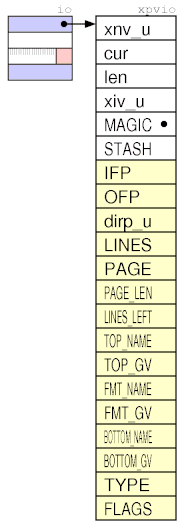
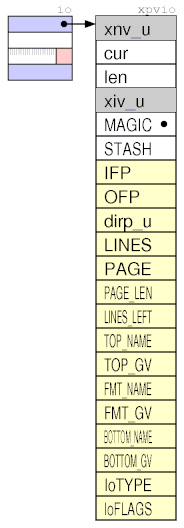
import illguts-0.12.tar.gz

diff --git a/index.html b/index.html
@@ -5,7 +5,7 @@ text="#000000" link="#000055" vlink="#550000" alink="#000000"
 topmargin=0>
 
 <h1 align="center" name="top">
-PerlGuts Illustrated<br><small>Version 0.11, for perl 5.11.2
+PerlGuts Illustrated<br><small>Version 0.12, for perl 5.11.2
 </small></h1>
 
 <p>This document is meant to supplement the <i>perlguts(1)</i> manual
@@ -438,16 +438,17 @@ A SvRV object with ROK flag off represents an undefined value.
 
 <a name="svpvmg"><h2>SvPVMG</h2></a>
 
-<p>The <i>SvPVMG</i> is like <i>SvPVNV</i> above, but has two
-additional fields; MAGIC and STASH.  MAGIC is a pointer to additional
-structures that contains callback functions and other data.  If the
+<p>Blessed scalars ar othr magic attached. <i>SvPVMG</i> has two
+additional fields; MAGIC and STASH. MAGIC is a pointer to additional
+structures that contains callback functions and other data. If the
 MAGIC pointer is non-NULL, then one or more of the MAGICAL flags will
 be set.
 
 <p>STASH (<b>s</b>ymbol <b>t</b>able h<b>ash</b>) is a pointer to a HV
-that represents some namespace/class.
-(That the HV represents some namespace means that the NAME field
-of the HV must be non-NULL. See description of <a href="hv">HVs</a> and <a href="#stash">stashes</a> below).
+that represents some namespace/class.  (That the HV represents some
+namespace means that the NAME field of the HV must be non-NULL. See
+description of <a href="hv">HVs</a> and <a href="#stash">stashes</a>
+below).
 
 The STASH field is set when the value is blessed into a package
 (becomes an object).  The OBJECT flag will be set when STASH is.
@@ -478,17 +479,17 @@ on the <i>type</i> (actually it is the callbacks attached to
 correspondence between the <i>type</i> field and the <i>virtual</i>
 field.
 
-<li><i>flags</i> contains 8 flag bits.  Only 2 are generally used.
-Bit 1 is the <b>REFCOUNTED</b> flag.  It indicates that the <i>obj</i>
+<li><i>flags</i> contains 8 flag bits, where 2 of them are generally used.
+Bit 2 is the <b>REFCOUNTED</b> flag.  It indicates that the <i>obj</i>
 is assumed to be an SV and that it's reference count must be
 decremented when this magic is freed.  The <b>GSKIP</b> flag indicate
-that invocation of the magical GET method should be suppressed.  Other
-flag bits are used depending of the kind of magic.
+that invocation of the magical GET method should be suppressed. 
+Other flag bits are used depending of the kind of magic.
 
-<li><i>obj</i> is usually a pointer to some SV.  How it is used
-depends on the kind of magic this is.
+<li><i>obj</i> is usually a pointer to some SV, <i>SvTIED_obj</i>.
+How it is used depends on the kind of magic this is.
 
-<li><i>ptr</i> is usually a pointer to some character string.  How it
+<li><i>ptr</i> is usually a pointer to some character <i>MgPV</i> string.  How it
 is used depends on the kind of magic this is.  If the <i>len</i> field
 is &gt;= 0, then <i>ptr</i> is assumed to point to a malloced buffer and
 will be automatically freed when the magic is.
@@ -496,8 +497,12 @@ will be automatically freed when the magic is.
 <li><i>len</i> is usually the length of the character string pointed
 to by <i>ptr</i>.  How it is used depends on the kind of magic this
 is.
-
 </ol>
+
+The struct magic_state is stored on the global <a
+href="#stacks">savestack</a>.  <i>mgs_sv</i> points to our magical sv,
+and <i>mgs_ss_ix</i> points on the savestack after the saved
+destructor.
 
 
 <a name="svpvbm"><h2>SvPVBM (old)</h2></a>
@@ -759,21 +764,24 @@ to by GvSTASH will usually contain an element with NAME as
 key and a pointer to this GV as value.  See description of
 <a href="#stash">stashes</a> below.
 
-<p>FLAGS:
+<p>GvFLAGS:
 <blockquote><dl>
 
- <dt>0) <b>INTRO</b>
+ <dt>0x1) <b>INTRO</b>
 
- <dt>1) <b>MULTI</b>
+ <dt>0x2) <b>MULTI</b>
  <dd> Have we seen more than one occurrence of this glob.  Used to
       implement the "possibly typo" warning.
 
- <dt>2) <b>ASSUMECV</b>
+ <dt>0x4) <b>ASSUMECV</b>
+            The GV is most likely a CV.
+ <dt>0x8) <b>IN_PAD</b>
+            With ithreads new GVs are created temporary on the PAD, and not as global SV.
 
- <dt>4) <b>IMPORTED_SV</b>
- <dt>5) <b>IMPORTED_AV</b>
- <dt>6) <b>IMPORTED_HV</b>
- <dt>7) <b>IMPORTED_CV</b>
+ <dt>0x10) <b>IMPORTED_SV</b>
+ <dt>0x20) <b>IMPORTED_AV</b>
+ <dt>0x40) <b>IMPORTED_HV</b>
+ <dt>0x80) <b>IMPORTED_CV</b>
 </dl></blockquote>
 
 <p>A magic of type '*' is always attached to the GV (not shown in the
@@ -800,10 +808,10 @@ CVGEN, LASTEXPR, LINE, FILEGV.
 to this GP.  It is incremented/decremented as new GVs reference/forget
 this GP.  When the counter reach 0 the GP is freed.
 
-<p>EGV is a pointer to the GV that originally created this GP (used to
-tell the real name of any aliased symbol).  If the original GV is freed,
-but GP should stay since another GV reference it, then the EGV is
-NULLed.
+<p>EGV, the effective gv, if *glob, is a pointer to the GV that
+originally created this GP (used to tell the real name of any aliased
+symbol).  If the original GV is freed, but GP should stay since
+another GV reference it, then the EGV is NULLed.
 
 <p>CVGEN is an integer used to validate method cache CV entries in the
 GP.  If CVGEN is zero, then the CV is real.  If CVGEN is non-zero, but
@@ -816,12 +824,7 @@ entry.
 method caches are performed, then the <tt>subgeneration</tt> variable
 is incremented.)
 
-<p>LASTEXPR is an integer I don't understand the purpose of yet.
-
-<p>FILEGV is a pointer to a GV where the SV of the GP is the name of
-the file where this symbol was first created.  The NAME of this GV is
-the filename prefixed with "_&lt;" and GvSTASH is
-<code>defstash</code> (see description of <a href="#stash">stashes</a> below).
+<p>FILE_HEK is the name of the file where this symbol was first created. 
 
 <p>LINE is the corresponding line number in the file.
 
@@ -872,9 +875,8 @@ same glob as the corresponding "<code>_&lt;</code>" entry in
 <a name="cv"><h2>CV</h2></a>
 
 The <i>CV</i> ("code value") is like <i>SvPVMG</i> above, but has
-thirteen additional fields; CvSTASH, START, ROOT, XSUB, XSUBANY, GV, FILEGV,
-DEPTH, PADLIST, OUTSIDE, MUTEXP, OWNER, FLAGS.  (The fields MUTEXP and
-OWNER are only present for Perls that support threading).
+some renamed and additional fields; CvSTASH, START, ROOT, GV, FILE,
+DEPTH, PADLIST, OUTSIDE, OUTSIDE_SEQ, FLAGS.
 
 <p><center><img src="cv.png"></center>
 
@@ -904,7 +906,7 @@ additional fields.
 
 <p><center><img src="io.png"></center>
 
-<b>FLAGS (xio_flags)</b>
+<b>IoFLAGS</b>
 <blockquote><dl>
 <dt>1  IOf_ARGV		this fp iterates over ARGV
 <dt>2  IOf_START	check for null ARGV and substitute '-'
@@ -972,7 +974,76 @@ class hierarchy diagram shows:
 
 <p>A typical small optree for <code>$a = $b + $c</code> would be:
 
-<center><img src="abc-simple.png"></center>
+<center><img src="opsample.png"></center>
+
+<table><tr valign="top"><td><pre>
+	$ perl-nonthreaded -MO=Concise -e '$a = $b + 42'
+	8  &lt;@&gt; leave[1 ref] vKP/REFC -&gt;(end)
+	1     &lt;0&gt; enter -&gt;2
+	2     &lt;;&gt; nextstate(main 1 -e:1) v:{ -&gt;3
+	7     &lt;2&gt; sassign vKS/2 -&gt;8
+	5        &lt;2&gt; add[t1] sK/2 -&gt;6
+	-           &lt;1&gt; ex-rv2sv sK/1 -&gt;4
+	3              &lt;$&gt; gvsv(*b) s -&gt;4
+	4           &lt;$&gt; const(IV 42) s -&gt;5
+	-        &lt;1&gt; ex-rv2sv sKRM*/1 -&gt;7
+	6           &lt;$&gt; gvsv(*a) s -&gt;7
+</pre><i>(Note: ex-ops are Nullified)</i></td><td><pre>
+	$ perl-nonthreaded -MO=Concise,-exec -e '$a = $b + 42'
+	1  &lt;0&gt; enter
+	2  &lt;;&gt; nextstate(main 1 -e:1) v:{
+	3  &lt;$&gt; gvsv(*b) s
+	4  &lt;$&gt; const(IV 42) s
+	5  &lt;2&gt; add[t1] sK/2
+	6  &lt;$&gt; gvsv(*a) s
+	7  &lt;2&gt; sassign vKS/2
+	8  &lt;@&gt; leave[1 ref] vKP/REFC
+</pre></td></tr></table>
+
+We have two BINOPs, SASSIGN and ADD as &lt;2&gt; 
+and three SVOPs, GVSV and CONST as &lt;$&gt;.
+
+<table><tr valign="top"><td><pre>
+my %argnum = (
+    'S',  1,   # scalar
+    'L',  2,   # list
+    'A',  3,   # array value
+    'H',  4,   # hash value
+    'C',  5,   # code value
+    'F',  6,   # file value
+    'R',  7,   # scalar reference
+);
+</pre></td><td><pre>
+my %opclass = (
+    '0',  0,   # baseop
+    '1',  1,   # unop
+    '2',  2,   # binop
+    '|',  3,   # logop
+    '@',  4,   # listop
+    '/',  5,   # pmop
+    '$',  6,   # svop_or_padop
+    '#',  7,   # padop
+    '"',  8,   # pvop_or_svop
+    '{',  9,   # loop
+    ';',  10,  # cop
+    '%',  11,  # baseop_or_unop
+    '-',  12,  # filestatop
+    '}',  13,  # loopexop
+);
+</pre></td><td><pre>
+my %opflags = (
+    'm' =>   1,   # needs stack mark
+    'f' =>   2,   # fold constants
+    's' =>   4,   # always produces scalar
+    't' =>   8,   # needs target scalar
+    'T' =>   8|256, # ... which may be lexical
+    'i' =>  16,   # always produces integer
+    'I' =>  32,   # has corresponding int op
+    'd' =>  64,   # danger, unknown side effects
+    'u' => 128,   # defaults to $_
+);
+</pre></td></tr></table>
+
 
 <p><i>For syntax trees and OP codes also see 
 <a href="http://www.perlfoundation.org/perl5/index.cgi?optree_guts">http://www.perlfoundation.org/perl5/index.cgi?optree_guts</a> 
@@ -1053,7 +1124,7 @@ describe the current context.  Each time a subroutine, an eval or a
 loop is entered, then a new PERL_CONTEXT record is pushed on the
 <code>cxstack</code>.  When subroutine/eval/loop finished then the
 record top record is poped and the corresponding values restored.  The
-PERL_CONTEXT record will eventually be descibed below.
+PERL_CONTEXT record will eventually be described below.
 
 <p><center><img src="stack.png"></center>
 
@@ -1083,7 +1154,7 @@ NOTYET
 <i>&copy; 1998-1999 Gisle Aas. 2009 Reini Urban</i><br>
 <a href="mailto:gisle@aas.no">&lt;gisle@aas.no&gt;</a><br>
 <a href="mailto:rurban@cpan.org">&lt;rurban@cpan.org&gt;</a><br>
-$Date: 2009-11-22 14:39:10 $
+$Date: 2009-11-22 18:16:51 rurban $
 </small>
 </div>
 
